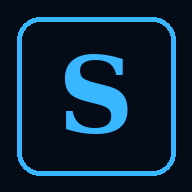
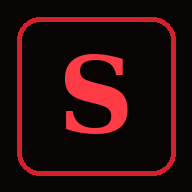
Add files via upload

Changed region(s): [[0.0625, 0.0625, 0.9375, 0.9375], [0.3125, 0.2812, 0.6875, 0.7188]]

diff --git a/index.html b/index.html
@@ -1,7 +1,7 @@
 <!DOCTYPE html>
 <html lang="fr"><head><meta charset="utf-8">
 <meta name="viewport" content="width=device-width,initial-scale=1,viewport-fit=cover">
-<meta name="theme-color" content="#060b18">
+<meta name="theme-color" content="#090404">
 <link rel="manifest" href="manifest.json">
 <link rel="icon" href="icon.svg">
 <link rel="apple-touch-icon" href="icon-192.png">
@@ -9,51 +9,75 @@
 <meta name="mobile-web-app-capable" content="yes">
 <title>Le Système 365</title>
 <style>
-:root{--bg:#060b18;--card:#0d1630;--line:#1d3a7a;--ac:#38b6ff;--tx:#e6f0ff;--mu:#8ea2c8;--ok:#3ddc97;--bad:#ff5c7a;color-scheme:dark}
-*{box-sizing:border-box}
-body{margin:0;background:var(--bg);color:var(--tx);font:15px/1.4 "Trebuchet MS",system-ui,sans-serif;padding:env(safe-area-inset-top) 0 calc(72px + env(safe-area-inset-bottom))}
+:root{--bg:#090404;--card:#140909;--card2:#1e0a0c;--line:#4a1216;--ac:#d4202a;--ac2:#ff3b45;--gold:#e8b04a;--tx:#f3e7e7;--mu:#a58a8c;color-scheme:dark}
+*{box-sizing:border-box;-webkit-tap-highlight-color:transparent}
+body{margin:0;background:radial-gradient(circle at 50% -10%,#2a0a0d 0,#090404 60%) fixed;color:var(--tx);font:15px/1.4 "Trebuchet MS",system-ui,sans-serif;padding:env(safe-area-inset-top) 0 calc(78px + env(safe-area-inset-bottom))}
+header{position:sticky;top:env(safe-area-inset-top);z-index:5;display:flex;justify-content:space-between;align-items:center;padding:10px 14px;background:#090404ee;border-bottom:1px solid var(--line)}
+header>div{position:relative}
+.ttl{font:700 19px Georgia,serif;color:var(--ac2);text-shadow:0 0 10px var(--ac)}
 main{max-width:640px;margin:auto;padding:14px}
-h1{margin:0;font:700 30px/1.1 Georgia,serif;color:var(--ac);text-shadow:0 0 12px var(--ac)}
-h2{font:700 17px Georgia,serif;margin:4px 0 10px}
-.card{background:var(--card);border:1px solid var(--line);border-radius:12px;padding:14px;margin-bottom:12px;box-shadow:0 0 16px #38b6ff1f}
+h2{font:700 17px Georgia,serif;margin:2px 0 10px}
+.card{background:linear-gradient(160deg,var(--card2),var(--card));border:1px solid var(--line);border-radius:12px;padding:14px;margin-bottom:12px;box-shadow:0 0 18px #d4202a14}
 .mu{color:var(--mu);font-size:13px}
-.q{display:flex;gap:10px;align-items:center;padding:11px;border:1px solid var(--line);border-radius:10px;margin-bottom:8px;cursor:pointer}
-.q i{flex:none;width:24px;height:24px;border:2px solid var(--ac);border-radius:6px;display:grid;place-items:center;color:var(--ok);font-style:normal;font-weight:700}
-.q.on{opacity:.55}.q.on span{text-decoration:line-through}
-.q span{flex:1}.q small{display:block;color:var(--mu);font-size:12px}
-.q b{color:var(--bad);padding:4px 8px}
-nav{position:fixed;bottom:0;left:0;right:0;display:flex;background:#081024ee;border-top:1px solid var(--line);padding-bottom:env(safe-area-inset-bottom)}
-nav button{flex:1;padding:15px 0;background:none;border:0;color:var(--mu);font:inherit}
-nav button.a{color:var(--ac);text-shadow:0 0 8px var(--ac)}
-.bar{height:8px;background:#12234a;border-radius:6px;overflow:hidden;flex:1}
-.bar div{height:100%;background:linear-gradient(90deg,#1d6fff,#38b6ff)}
-.dm{display:flex;gap:8px;align-items:center;margin:7px 0}.dm span{width:104px;font-size:13px}.dm em{width:40px;font-style:normal;text-align:right;color:var(--mu);font-size:12px}
+.btn,select{background:linear-gradient(180deg,#2c0c10,#1a0708);color:var(--tx);border:1px solid var(--line);border-radius:9px;padding:9px 13px;font:inherit;margin:4px 4px 0 0;cursor:pointer;transition:transform .12s,box-shadow .15s,border-color .15s}
+.btn:hover{border-color:var(--ac2);box-shadow:0 0 12px #d4202a66;transform:translateY(-1px)}
+.btn:active{transform:scale(.95)}
+.q{display:flex;gap:10px;align-items:center;padding:12px;border:1px solid var(--line);border-radius:10px;margin-bottom:8px;cursor:pointer;background:#10060799;transition:transform .12s,border-color .15s,box-shadow .15s}
+.q:hover{border-color:var(--ac2);box-shadow:0 0 12px #d4202a44}
+.q:active{transform:scale(.98)}
+.q i{flex:none;width:26px;height:26px;border:2px solid var(--ac);border-radius:7px;display:grid;place-items:center;color:var(--gold);font-style:normal;font-weight:700;transition:background .15s}
+.q.on{opacity:.6}.q.on i{background:var(--ac);animation:pop .3s}.q.on span{text-decoration:line-through}
+.q.bo{border-color:var(--gold)}
+.q span{flex:1}.q small,.dm small{display:block;color:var(--mu);font-size:12px}
+nav{position:fixed;bottom:0;left:0;right:0;display:flex;background:#090404f2;border-top:1px solid var(--line);padding-bottom:env(safe-area-inset-bottom)}
+nav button{flex:1;padding:14px 0;background:none;border:0;border-top:2px solid transparent;color:var(--mu);font:inherit;transition:color .15s,background .15s}
+nav button:hover{background:#2a0a0d}nav button:active{transform:scale(.94)}
+nav button.a{color:var(--ac2);border-top-color:var(--ac2);text-shadow:0 0 8px var(--ac)}
+.menu{position:absolute;top:100%;left:0;margin-top:6px;background:var(--card2);border:1px solid var(--line);border-radius:10px;overflow:hidden;min-width:150px;z-index:10;box-shadow:0 6px 24px #000}
+.menu button{display:block;width:100%;text-align:left;padding:13px 14px;background:none;border:0;color:var(--tx);font:inherit}
+.menu button:hover,.menu .a{background:#3a0e12}
+.bar{height:9px;background:#2a0d10;border-radius:6px;overflow:hidden;flex:1}
+.bar div{height:100%;background:linear-gradient(90deg,#7d0f16,#ff3b45);transition:width .5s}
+.dm{display:flex;gap:8px;align-items:center;margin:9px 0}.dm span{width:112px;font-size:14px}.dm em{width:32px;font-style:normal;text-align:right;color:var(--gold);font-weight:700}
 .cal{display:grid;grid-template-columns:repeat(31,1fr);gap:2px}.cal u{aspect-ratio:1;border-radius:2px}
-.rank{font:700 34px Georgia,serif;margin:6px 0}
-.btn,select{background:#12234a;color:var(--tx);border:1px solid var(--line);border-radius:8px;padding:9px 12px;font:inherit;margin:4px 4px 0 0}
-.warn{color:var(--bad)}.win{color:var(--ok)}
-</style></head><body><main id="app"></main>
-<nav id="nav"></nav>
+.hero{text-align:center}
+.av{width:210px;max-width:70%;height:auto;display:block;margin:0 auto}
+.au{transform-box:fill-box;transform-origin:center;animation:pulse 3s ease-in-out infinite}
+.rank{font:700 32px Georgia,serif;margin:2px 0;color:var(--ac2);text-shadow:0 0 14px var(--ac)}
+.live{display:inline-block;width:8px;height:8px;border-radius:50%;background:var(--ac2);margin-right:6px;animation:pulse 1.4s infinite}
+.fx{position:fixed;pointer-events:none;color:var(--gold);font-weight:700;font-size:18px;text-shadow:0 0 8px #000;animation:fl .9s ease-out forwards;z-index:30}
+.ov{position:fixed;inset:0;background:#000d;z-index:40;display:grid;place-items:center;padding:20px}
+.ov .card{text-align:center;max-width:360px;animation:pop .4s}
+.warn{color:var(--ac2)}.win{color:var(--gold)}
+@keyframes pop{0%{transform:scale(.6)}60%{transform:scale(1.2)}100%{transform:scale(1)}}
+@keyframes pulse{0%,100%{opacity:.6;transform:scale(1)}50%{opacity:1;transform:scale(1.07)}}
+@keyframes fl{to{transform:translateY(-52px);opacity:0}}
+@media(prefers-reduced-motion:reduce){*{animation:none!important;transition:none!important}}
+</style></head><body>
+<header id="hd"></header><main id="app"></main><nav id="nav"></nav>
 <script>
 const RANKS=["E","D","C","B","A","S","National"],TIERS=["Débutant","Confirmé","Avancé"];
 const DOM=["Hygiène","Travail","Sport","Finances","Alimentation","Sommeil","Relations","Apprentissage","Mental"];
-const XP={d:10,w:40,m:150},K="systeme365";
+const STAT={Sport:"Force",Travail:"Endurance",Apprentissage:"Intelligence",Mental:"Volonté",Relations:"Charisme",Finances:"Richesse",Alimentation:"Vitalité",Sommeil:"Récupération",Hygiène:"Apparence"};
+const XP={d:10,w:40,m:150},BX={d:15,w:60,m:200},K="systeme365";
 const rn=i=>RANKS[Math.floor(i/3)]+" "+TIERS[i%3];
 const thr=i=>.10+.04*i;
 const iso=d=>{const z=new Date(d);return z.getFullYear()+"-"+String(z.getMonth()+1).padStart(2,"0")+"-"+String(z.getDate()).padStart(2,"0")};
 const addD=(s,n)=>{const d=new Date(s+"T12:00");d.setDate(d.getDate()+n);return iso(d)};
 const dayN=s=>Math.round((new Date(iso(Date.now())+"T12:00")-new Date(s+"T12:00"))/864e5)+1;
 const clean=s=>String(s||"").replace(/[<>&"'`\\]/g,"").trim().slice(0,60);
-let id=0;const nid=()=>Date.now().toString(36)+(id++);
+let uid=0;const nid=()=>Date.now().toString(36)+(uid++);
 const mk=(g,n)=>({id:nid(),g,n});
-function fresh(){return{start:iso(Date.now()),target:16,step:0,last:0,since:0,low:0,done:{},log:[],q:{
-d:[mk("Hygiène","Douche et soins du jour"),mk("Travail","2 h de travail concentré"),mk("Sport","30 min d’activité physique"),mk("Finances","Noter mes dépenses"),mk("Alimentation","Repas équilibrés et 2 L d’eau"),mk("Sommeil","Me coucher avant minuit"),mk("Relations","Échanger avec un proche"),mk("Apprentissage","20 min de lecture"),mk("Mental","10 min de calme")],
-w:[mk("Sport","3 séances de sport"),mk("Finances","Faire le point sur mon budget"),mk("Relations","Voir un ami ou la famille"),mk("Travail","Atteindre l’objectif de la semaine"),mk("Hygiène","Ménage complet")],
-m:[mk("Finances","Atteindre l’objectif d’épargne"),mk("Sport","Battre un record personnel"),mk("Relations","Organiser une sortie"),mk("Apprentissage","Terminer un livre ou un module"),mk("Travail","Atteindre l’objectif du mois")]}}}
+function fresh(){return{start:iso(Date.now()),target:20,step:0,last:0,since:0,low:0,done:{},log:[],q:{
+d:[mk("Sport","30 min d’activité physique"),mk("Mental","10 min de calme"),mk("Hygiène","Douche et dents"),mk("Alimentation","Respecter mes repas de prise de poids"),mk("Finances","Gagner 100 $"),mk("Relations","Échanger avec un humain"),mk("Apprentissage","20 min pour apprendre quelque chose de nouveau"),mk("Sommeil","Me coucher à la même heure qu’hier"),mk("Travail","5 h de travail concentré")],
+w:[mk("Sport","3 séances de sport"),mk("Relations","Voir un ami ou la famille"),mk("Hygiène","Ménage complet"),mk("Finances","Gagner 1k"),mk("Alimentation","Avoir pris 2 kilos"),mk("Travail","Avoir travaillé 6 jours sur 7")],
+m:[mk("Relations","Organiser une sortie"),mk("Finances","Gagner 5k"),mk("Apprentissage","Avoir acquis une nouvelle capacité"),mk("Travail","Travailler 25 jours sur 30"),mk("Alimentation","Avoir pris 5 kilos"),mk("Sport","15 séances et record battu aux exercices")]}}}
 let S;try{S=JSON.parse(localStorage.getItem(K)||"null")}catch(e){}
 if(!S)S=fresh();
+if(S.seen===undefined)S.seen=S.log.length;
 const save=()=>{try{localStorage.setItem(K,JSON.stringify(S))}catch(e){}};
-const xpOn=d=>{let s=0;for(const k in S.done)if(S.done[k]===d)s+=XP[k[0]];return s};
+const kx=k=>k[0]=="b"?BX[k[1]]:XP[k[0]];
+const xpOn=d=>{let s=0;for(const k in S.done)if(S.done[k]===d)s+=kx(k);return s};
 const max7=()=>7*S.q.d.length*10+S.q.w.length*40+S.q.m.length*150*7/30||1;
 const score=d=>{let s=0;for(let i=0;i<7;i++)s+=xpOn(addD(d,-i));return Math.min(1,s/max7())};
 function proc(){const t=dayN(S.start),upto=Math.min(t-1,365);
@@ -63,43 +87,60 @@ function proc(){const t=dayN(S.start),upto=Math.min(t-1,365);
   else S.low=0;
   S.last=n}
  save()}
-function tg(k){if(S.done[k])delete S.done[k];else S.done[k]=iso(Date.now());save();R()}
+function fx(e,xp){if(!e||e.clientX==null)return;const f=document.createElement("div");f.className="fx";f.textContent="+"+xp+" XP";f.style.left=(e.clientX-22)+"px";f.style.top=(e.clientY-24)+"px";document.body.appendChild(f);setTimeout(()=>f.remove(),900)}
+function tg(k,xp,e){if(S.done[k])delete S.done[k];else{S.done[k]=iso(Date.now());fx(e,xp);if(navigator.vibrate)navigator.vibrate(15)}save();R()}
+function ask(q){const n=clean(prompt("Nom de la quête",q?q.n:""));if(!n)return null;const v=clean(prompt("Domaine : "+DOM.join(", "),q?q.g:""));return{n,g:DOM.find(x=>x.toLowerCase()==v.toLowerCase())||(q?q.g:"Mental")}}
+function add(t){const r=ask();if(!r)return;S.q[t].push(mk(r.g,r.n));save();R()}
+function ed(t,i){const q=S.q[t].find(x=>x.id===i),r=ask(q);if(!r)return;q.n=r.n;q.g=r.g;save();R()}
 function del(t,i){if(confirm("Supprimer cette quête ?")){S.q[t]=S.q[t].filter(q=>q.id!==i);save();R()}}
-function add(t){const n=clean(prompt("Nom de la quête"));if(!n)return;const v=clean(prompt("Domaine : "+DOM.join(", ")));
- S.q[t].push(mk(DOM.find(x=>x.toLowerCase()==v.toLowerCase())||"Mental",n));save();R()}
-const list=(t,key)=>S.q[t].map(q=>{const k=key(q),on=!!S.done[k];return `<div class="q ${on?"on":""}" onclick="tg('${k}')"><i>${on?"✓":""}</i><span>${q.n}<small>${q.g}, +${XP[t]} XP</small></span>${edit?`<b onclick="event.stopPropagation();del('${t}','${q.id}')">✕</b>`:""}</div>`}).join("");
-let tab="d",edit=false;
-const TABS={d:"Aujourd’hui",w:"Semaine",m:"Mois",p:"Profil"};
-function head(t){const need=thr(Math.min(20,S.step+1)),sc=score(iso(Date.now()));
- const lock=Math.max(0,7-S.since);
- return `<div class="card"><h1>Le Système</h1><div class="mu">Jour ${Math.min(t,365)} sur 365, objectif : ${rn(S.target)}</div>
- <div class="rank">${rn(S.step)}</div>
- <div class="dm"><div class="bar"><div style="width:${Math.min(100,sc/need*100)}%"></div></div><em>${Math.round(sc*100)}%</em></div>
- <div class="mu">Forme sur 7 jours, ${S.step<20?`${Math.round(need*100)}% requis pour monter`:"palier maximal"}.${lock&&S.step<20?` Prochaine promotion possible dans ${lock} j.`:""}</div>
- ${S.low?`<div class="warn">Attention : deuxième jour sous le seuil, une rétrogradation approche.</div>`:""}</div>`}
-function R(){proc();const t=dayN(S.start),today=iso(Date.now());let h=head(t);
- if(t>365)h+=`<div class="card"><h2 class="${S.step>=S.target?"win":"warn"}">${S.step>=S.target?"Victoire : objectif atteint":"Échec : objectif non atteint"}</h2><div class="mu">Rang final : ${rn(S.step)}.</div></div>`;
- if(t<1)h+=`<div class="card">Le défi commence bientôt.</div>`;
- else if(tab=="d")h+=`<div class="card"><h2>Quêtes du jour</h2>${list("d",q=>"d:"+today+":"+q.id)}<button class="btn" onclick="add('d')">Ajouter</button><button class="btn" onclick="edit=!edit;R()">${edit?"Terminer":"Modifier"}</button></div>`;
- else if(tab=="w"){const w=Math.floor((Math.min(t,365)-1)/7);h+=`<div class="card"><h2>Quêtes de la semaine ${w+1}</h2>${list("w",q=>"w:"+w+":"+q.id)}<button class="btn" onclick="add('w')">Ajouter</button><button class="btn" onclick="edit=!edit;R()">${edit?"Terminer":"Modifier"}</button></div>`}
- else if(tab=="m"){const m=Math.floor((Math.min(t,365)-1)/30);h+=`<div class="card"><h2>Boss du mois ${m+1}</h2>${list("m",q=>"m:"+m+":"+q.id)}<button class="btn" onclick="add('m')">Ajouter</button><button class="btn" onclick="edit=!edit;R()">${edit?"Terminer":"Modifier"}</button></div>`}
- else h+=profile(t,today);
- app.innerHTML=h;nav.innerHTML=Object.entries(TABS).map(([k,v])=>`<button class="${k==tab?"a":""}" onclick="tab='${k}';R()">${v}</button>`).join("")}
+const qrow=(k,n,sub,xp,c)=>{const on=!!S.done[k];return `<div class="q ${c||""} ${on?"on":""}" onclick="tg('${k}',${xp},event)"><i>${on?"✓":""}</i><span>${n}<small>${sub}, +${xp} XP</small></span></div>`};
+let page="p",mode="d",menu=false;
+const MODES={d:"Jour",w:"Semaine",m:"Mois"};
+function qpage(t,today){const c=Math.min(t,365)-1,W=Math.floor(c/7),M=Math.floor(c/30);
+ const f={d:{ti:"Quêtes du jour",k:q=>"d:"+today+":"+q.id,b:"bd:"+today},w:{ti:"Quêtes de la semaine "+(W+1),k:q=>"w:"+W+":"+q.id,b:"bw:"+W},m:{ti:"Boss du mois "+(M+1),k:q=>"m:"+M+":"+q.id,b:"bm:"+M}}[mode];
+ const n=S.q[mode].filter(q=>S.done[f.k(q)]).length;
+ return `<div class="card"><h2>${f.ti}</h2><div class="mu" style="margin-bottom:10px">${n} sur ${S.q[mode].length} accomplies</div>
+ ${S.q[mode].map(q=>qrow(f.k(q),q.n,q.g,XP[mode])).join("")}
+ <div class="mu" style="margin:12px 0 6px">Quête bonus</div>${qrow(f.b,"Pas de craquage","Bonus",BX[mode],"bo")}</div>`}
+function dpct(g,today){const qs=S.q.d.filter(q=>q.g===g);if(!qs.length)return null;let a=0,b=0;for(let i=0;i<7;i++){const d=addD(today,-i);qs.forEach(q=>{b++;if(S.done["d:"+d+":"+q.id])a++})}return Math.round(a/b*100)}
+function avatar(){const p=S.step/20,n=1+Math.floor(p*4);let au="";
+ for(let i=0;i<n;i++)au+=`<circle class="au" cx="100" cy="135" r="${64+i*15}" fill="url(#g)" style="animation-delay:${i*.5}s;opacity:${.3+p*.6}"/>`;
+ const e=2.6+p*2.4;
+ return `<svg viewBox="0 0 200 250" class="av" role="img" aria-label="Ton personnage"><defs><radialGradient id="g"><stop offset="0" stop-color="#ff3b45" stop-opacity="0"/><stop offset=".7" stop-color="#d4202a" stop-opacity=".4"/><stop offset="1" stop-color="#d4202a" stop-opacity="0"/></radialGradient></defs>${au}
+ <path d="M100 70c-22 0-36 16-36 38v8c-26 8-44 34-44 70v34h160v-34c0-36-18-62-44-70v-8c0-22-14-38-36-38z" fill="#0d0405" stroke="#d4202a" stroke-width="2"/>
+ <ellipse cx="100" cy="108" rx="22" ry="26" fill="#050202"/>
+ <circle cx="91" cy="106" r="${e}" fill="#ff3b45"/><circle cx="109" cy="106" r="${e}" fill="#ff3b45"/></svg>`}
 function profile(t,today){
- const dm=DOM.map(g=>{const qs=S.q.d.filter(q=>q.g===g);if(!qs.length)return"";let a=0,b=0;for(let i=0;i<7;i++){const d=addD(today,-i);qs.forEach(q=>{b++;if(S.done["d:"+d+":"+q.id])a++})}const p=Math.round(a/b*100);return `<div class="dm"><span>${g}</span><div class="bar"><div style="width:${p}%"></div></div><em>${p}%</em></div>`}).join("");
+ const sc=score(today),need=thr(Math.min(20,S.step+1)),lock=Math.max(0,7-S.since);
+ const st=DOM.map(g=>({g,s:STAT[g],p:dpct(g,today)})).filter(x=>x.p!=null);
+ const power=st.length?Math.round(st.reduce((a,x)=>a+x.p,0)/st.length):0;
  const cal=Array.from({length:365},(_,i)=>{const n=i+1,d=addD(S.start,i),c=S.q.d.filter(q=>S.done["d:"+d+":"+q.id]).length/(S.q.d.length||1);
-  return `<u style="background:${n>t?"#0d1a3a":c>=.8?"#3ddc97":c>=.4?"#e8c14a":c>0?"#ff9a5c":n<t?"#ff5c7a":"#1d3a7a"}"></u>`}).join("");
+  return `<u style="background:${n>t?"#1a0b0c":c>=.8?"#e8b04a":c>=.4?"#b8651f":c>0?"#7a2a1a":n<t?"#3a1215":"#d4202a"}"></u>`}).join("");
  const log=S.log.slice(-6).reverse().map(l=>`<div class="mu">Jour ${l[0]} : ${l[1]>0?"promu":"rétrogradé"} en ${rn(l[2])}</div>`).join("")||`<div class="mu">Aucun changement de rang pour l’instant.</div>`;
- return `<div class="card"><h2>Domaines de vie (7 derniers jours)</h2>${dm}</div>
+ const end=t>365?`<div class="card"><h2 class="${S.step>=S.target?"win":"warn"}">${S.step>=S.target?"Victoire : objectif atteint":"Échec : objectif non atteint"}</h2><div class="mu">Rang final : ${rn(S.step)}.</div></div>`:"";
+ return `${end}<div class="card hero"><div class="mu"><i class="live"></i>En direct</div>${avatar()}
+ <div class="rank">${rn(S.step)}</div><div class="mu">Niveau ${S.step+1} sur 21, puissance ${power}. Objectif : ${rn(S.target)}</div>
+ <div class="dm"><div class="bar"><div style="width:${Math.min(100,sc/need*100)}%"></div></div><em style="width:44px">${Math.round(sc*100)}%</em></div>
+ <div class="mu">Forme sur 7 jours, ${S.step<20?`${Math.round(need*100)}% requis pour monter`:"palier maximal"}. XP du jour : ${xpOn(today)}.${lock&&S.step<20?` Promotion possible dans ${lock} j.`:""}</div>
+ ${S.low?`<div class="warn">Deuxième jour sous le seuil : une rétrogradation approche.</div>`:""}</div>
+ <div class="card"><h2>Statistiques</h2>${st.map(x=>`<div class="dm"><span>${x.s}<small>${x.g}</small></span><div class="bar"><div style="width:${x.p}%"></div></div><em>${x.p}</em></div>`).join("")}</div>
  <div class="card"><h2>Les 365 jours</h2><div class="cal">${cal}</div></div>
- <div class="card"><h2>Historique</h2>${log}</div>
- <div class="card"><h2>Réglages</h2><div class="mu">Rang à atteindre au jour 365</div>
- <select onchange="S.target=+this.value;save();R()">${Array.from({length:21},(_,i)=>`<option value="${i}" ${i==S.target?"selected":""}>${rn(i)}</option>`).join("")}</select><br>
- <button class="btn" onclick="exp()">Exporter la sauvegarde</button><button class="btn" onclick="imp.click()">Importer</button>
+ <div class="card"><h2>Historique</h2>${log}</div>`}
+function settings(){const T={d:"Quêtes quotidiennes",w:"Quêtes hebdomadaires",m:"Quêtes mensuelles"};
+ return `<div class="card"><h2>Objectif</h2><div class="mu">Rang à atteindre au jour 365</div>
+ <select onchange="S.target=+this.value;save();R()">${Array.from({length:21},(_,i)=>`<option value="${i}" ${i==S.target?"selected":""}>${rn(i)}</option>`).join("")}</select></div>
+ ${["d","w","m"].map(t=>`<div class="card"><h2>${T[t]}</h2>${S.q[t].map(q=>`<div class="q" style="cursor:default"><span>${q.n}<small>${q.g}</small></span><button class="btn" onclick="ed('${t}','${q.id}')">Modifier</button><button class="btn" onclick="del('${t}','${q.id}')">✕</button></div>`).join("")}<button class="btn" onclick="add('${t}')">Ajouter une quête</button></div>`).join("")}
+ <div class="card"><h2>Sauvegarde</h2><button class="btn" onclick="exp()">Exporter</button><button class="btn" onclick="imp.click()">Importer</button>
  <button class="btn" onclick="if(confirm('Tout effacer et recommencer au jour 1 ?')){S=fresh();save();R()}">Recommencer</button>
  <input id="imp" type="file" accept=".json" hidden onchange="load(this.files[0])"></div>`}
+function R(){proc();const t=dayN(S.start),today=iso(Date.now());
+ hd.innerHTML=`<div>${page=="q"?`<button class="btn" style="margin:0" onclick="menu=!menu;R()">${MODES[mode]} ▾</button>${menu?`<div class="menu">${Object.entries(MODES).map(([k,v])=>`<button class="${k==mode?"a":""}" onclick="mode='${k}';menu=false;R()">${v}</button>`).join("")}</div>`:""}`:`<span class="ttl">Le Système</span>`}</div><span class="mu">Jour ${Math.max(1,Math.min(t,365))} sur 365</span>`;
+ let h=page=="p"?profile(t,today):page=="q"?(t<1?`<div class="card">Le défi commence bientôt.</div>`:qpage(t,today)):settings();
+ if(S.log.length>S.seen){const l=S.log[S.log.length-1];h+=`<div class="ov"><div class="card"><h2 class="${l[1]>0?"win":"warn"}">${l[1]>0?"Promotion":"Rétrogradation"}</h2><div class="rank">${rn(l[2])}</div><button class="btn" onclick="S.seen=S.log.length;save();R()">Continuer</button></div></div>`}
+ app.innerHTML=h;
+ nav.innerHTML=[["p","◈ Profil"],["q","⚔ Quêtes"],["s","⚙ Réglages"]].map(([k,v])=>`<button class="${k==page?"a":""}" onclick="page='${k}';menu=false;R();scrollTo(0,0)">${v}</button>`).join("")}
 function exp(){const a=document.createElement("a");a.href=URL.createObjectURL(new Blob([JSON.stringify(S)],{type:"application/json"}));a.download="systeme365-"+iso(Date.now())+".json";a.click()}
-function load(f){if(!f)return;const r=new FileReader();r.onload=()=>{try{const o=JSON.parse(r.result);if(!o.q||!o.start)throw 0;S=o;save();R()}catch(e){alert("Fichier de sauvegarde invalide.")}};r.readAsText(f)}
+function load(f){if(!f)return;const r=new FileReader();r.onload=()=>{try{const o=JSON.parse(r.result);if(!o.q||!o.start)throw 0;S=o;if(S.seen===undefined)S.seen=S.log.length;save();R()}catch(e){alert("Fichier de sauvegarde invalide.")}};r.readAsText(f)}
 R();
 if("serviceWorker" in navigator&&location.protocol!=="file:")navigator.serviceWorker.register("sw.js");
 </script></body></html>

diff --git a/sw.js b/sw.js
@@ -1,4 +1,4 @@
-const C="systeme365-v1",F=["./","index.html","manifest.json","icon-192.png","icon-512.png"];
+const C="systeme365-v2",F=["./","index.html","manifest.json","icon-192.png","icon-512.png"];
 self.addEventListener("install",e=>{e.waitUntil(caches.open(C).then(c=>c.addAll(F)));self.skipWaiting()});
 self.addEventListener("activate",e=>e.waitUntil(caches.keys().then(k=>Promise.all(k.filter(x=>x!==C).map(x=>caches.delete(x))))));
 self.addEventListener("fetch",e=>e.respondWith(fetch(e.request).then(r=>{const c=r.clone();caches.open(C).then(ch=>ch.put(e.request,c));return r}).catch(()=>caches.match(e.request))));
